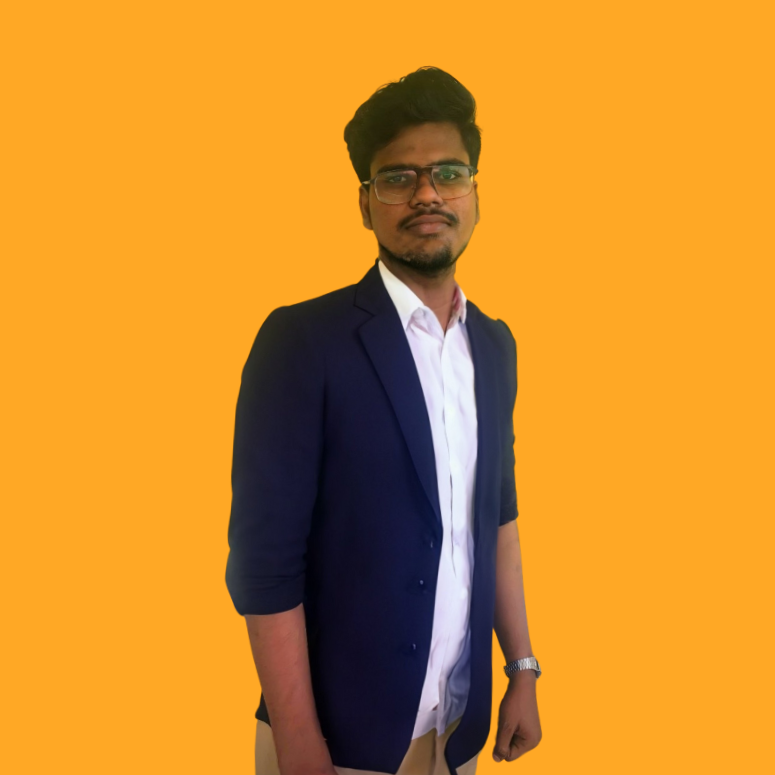
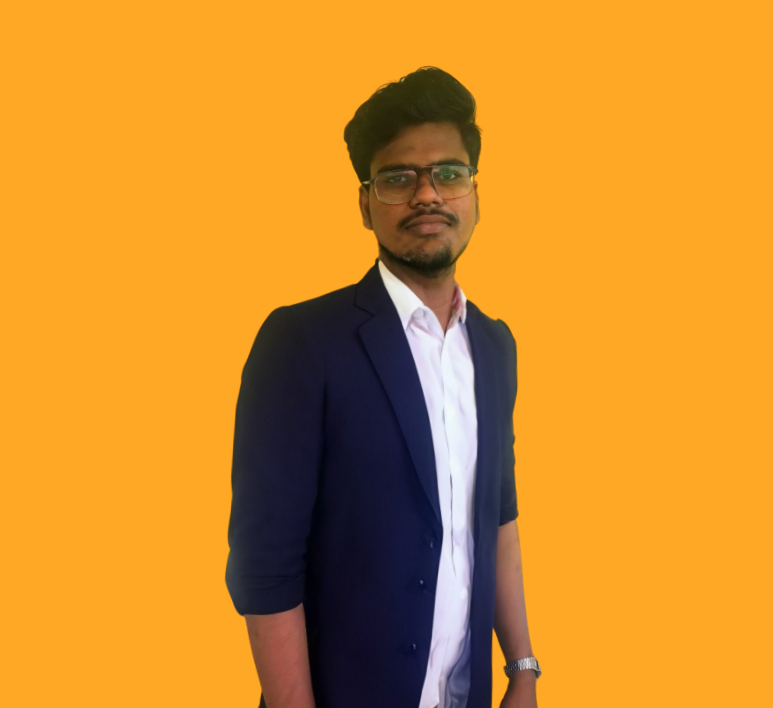
Completion of Hero section with responsiveness

Changed region(s): [[0.2794, 0.0621, 0.7141, 1.0], [0.3726, 0.6836, 0.4036, 0.7458], [0.4036, 0.6525, 0.4347, 0.6836]]

diff --git a/src/components/Hero/Hero.css b/src/components/Hero/Hero.css
@@ -99,6 +99,7 @@ button:hover{
 
 .Image img{
     width: 450px;
+    height: 450px;
     margin-right: 30px;
     border: 3px solid #ff8911;
     border-radius: 40px;
@@ -111,10 +112,78 @@ button:hover{
     margin-top: 1px;
 }
 
-@media screen and (min-width: 1160px) {
+@media screen and (max-width: 1170px) {
     .Image img{
         width: 430px;
+        height: 430px;
+    }
+
+    h1{
+        font-size: 3.3rem;
     }
   }
 
-  @media screen and (min-width)
+  @media screen and (max-width: 950px){
+    .button{
+        flex-direction: column;
+        gap : 0px;
+    }
+
+    button{
+        padding: 10px;
+        margin-top: 0px;
+    }
+
+    .Image img{
+        width: 350px;
+        height: 350px;
+        margin-top: 0px;
+    }
+
+    .Image img:hover{
+        margin-top: 0px;
+    }
+  }
+
+  @media screen and (max-width: 850px){
+
+    .Hero{
+        flex-direction: column-reverse;
+    }
+
+    .Image img{
+        width: 450px;
+        height: 450px;
+        margin-top: 0px;
+    }
+
+    .button{
+        margin-top: 10px;
+        margin-left: 0px;
+    }
+
+    button{
+        width: 80%;
+    }
+  }
+
+  @media screen and (max-width: 600px){
+    .Image img{
+        width: 280px;
+        height: 280px;
+        margin-top: 0px;
+    }
+
+    h1{
+        font-size: 2rem;
+        margin-left: 35px;
+    }
+    p{
+        margin-left: 40px;
+        font-size: 15px;
+    }
+    button{
+        margin: 10px;
+        margin-left: 0px;
+    }
+  }
